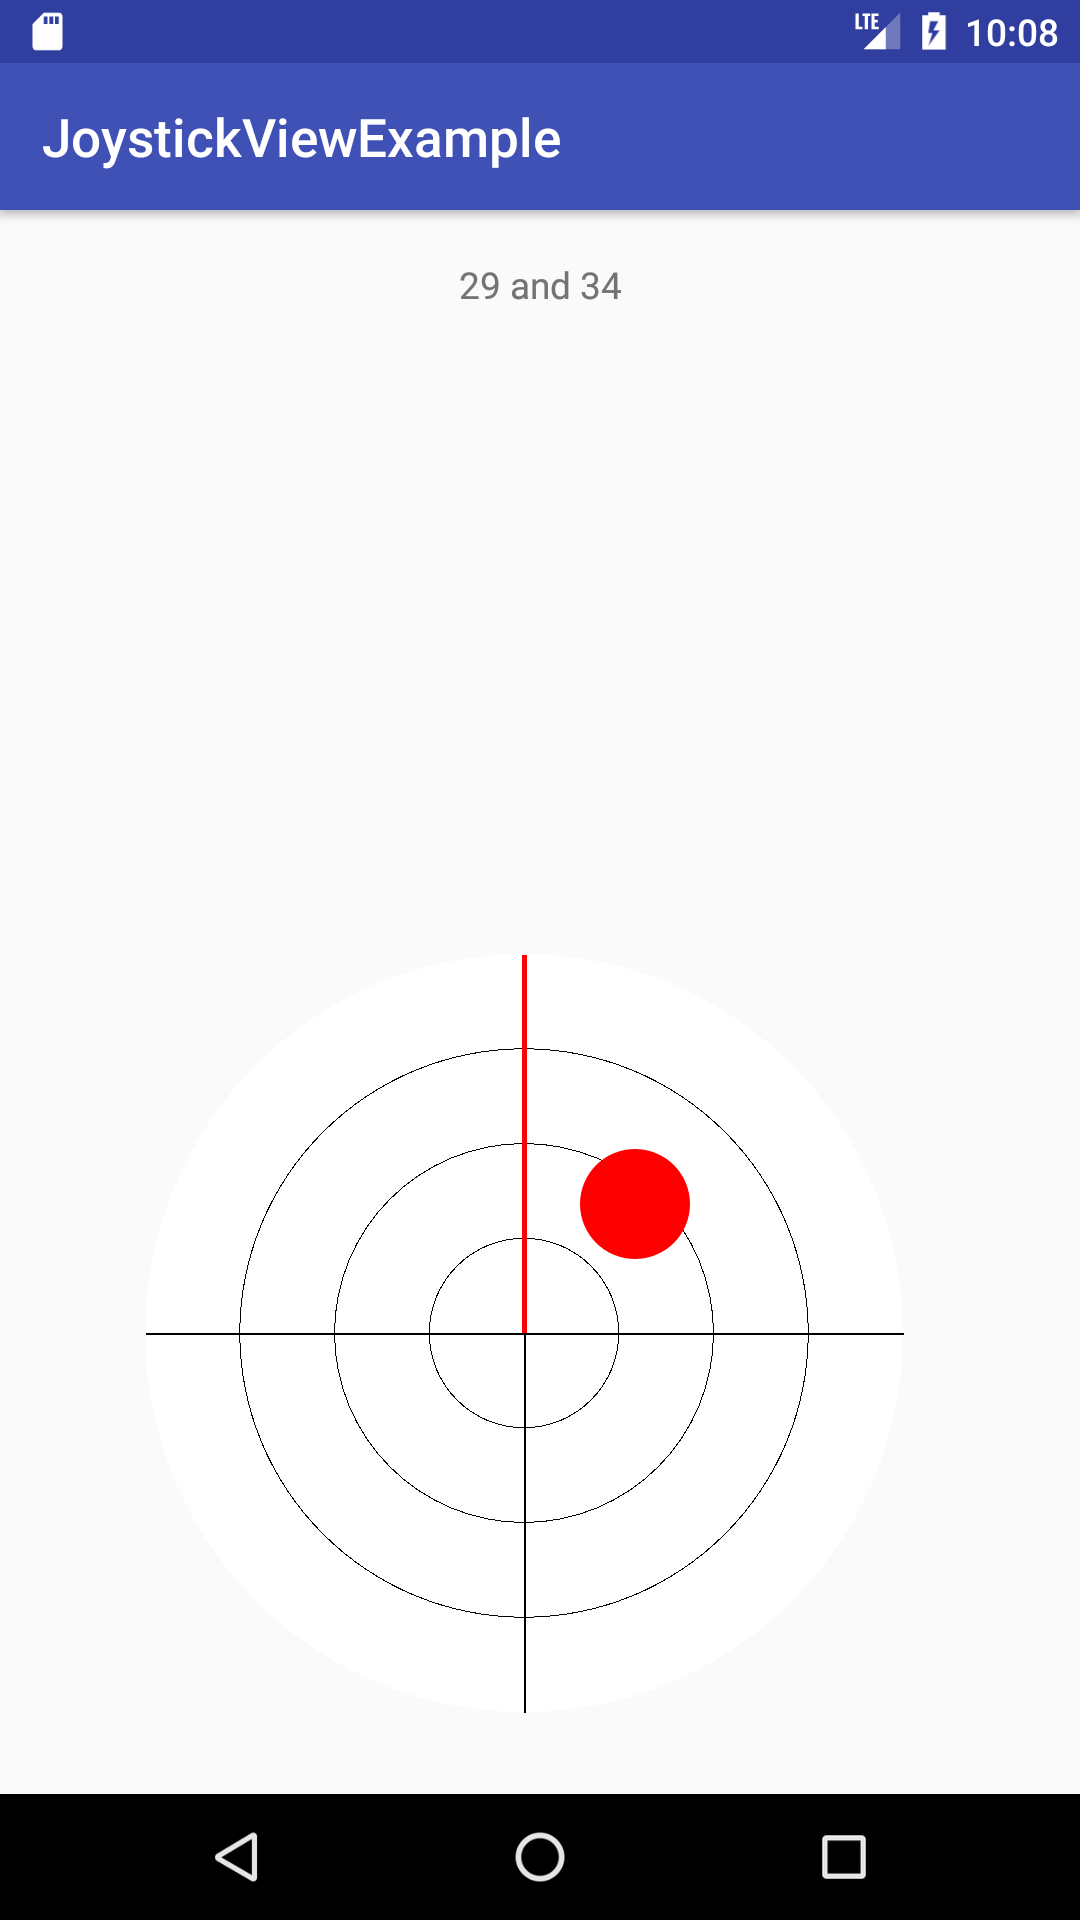
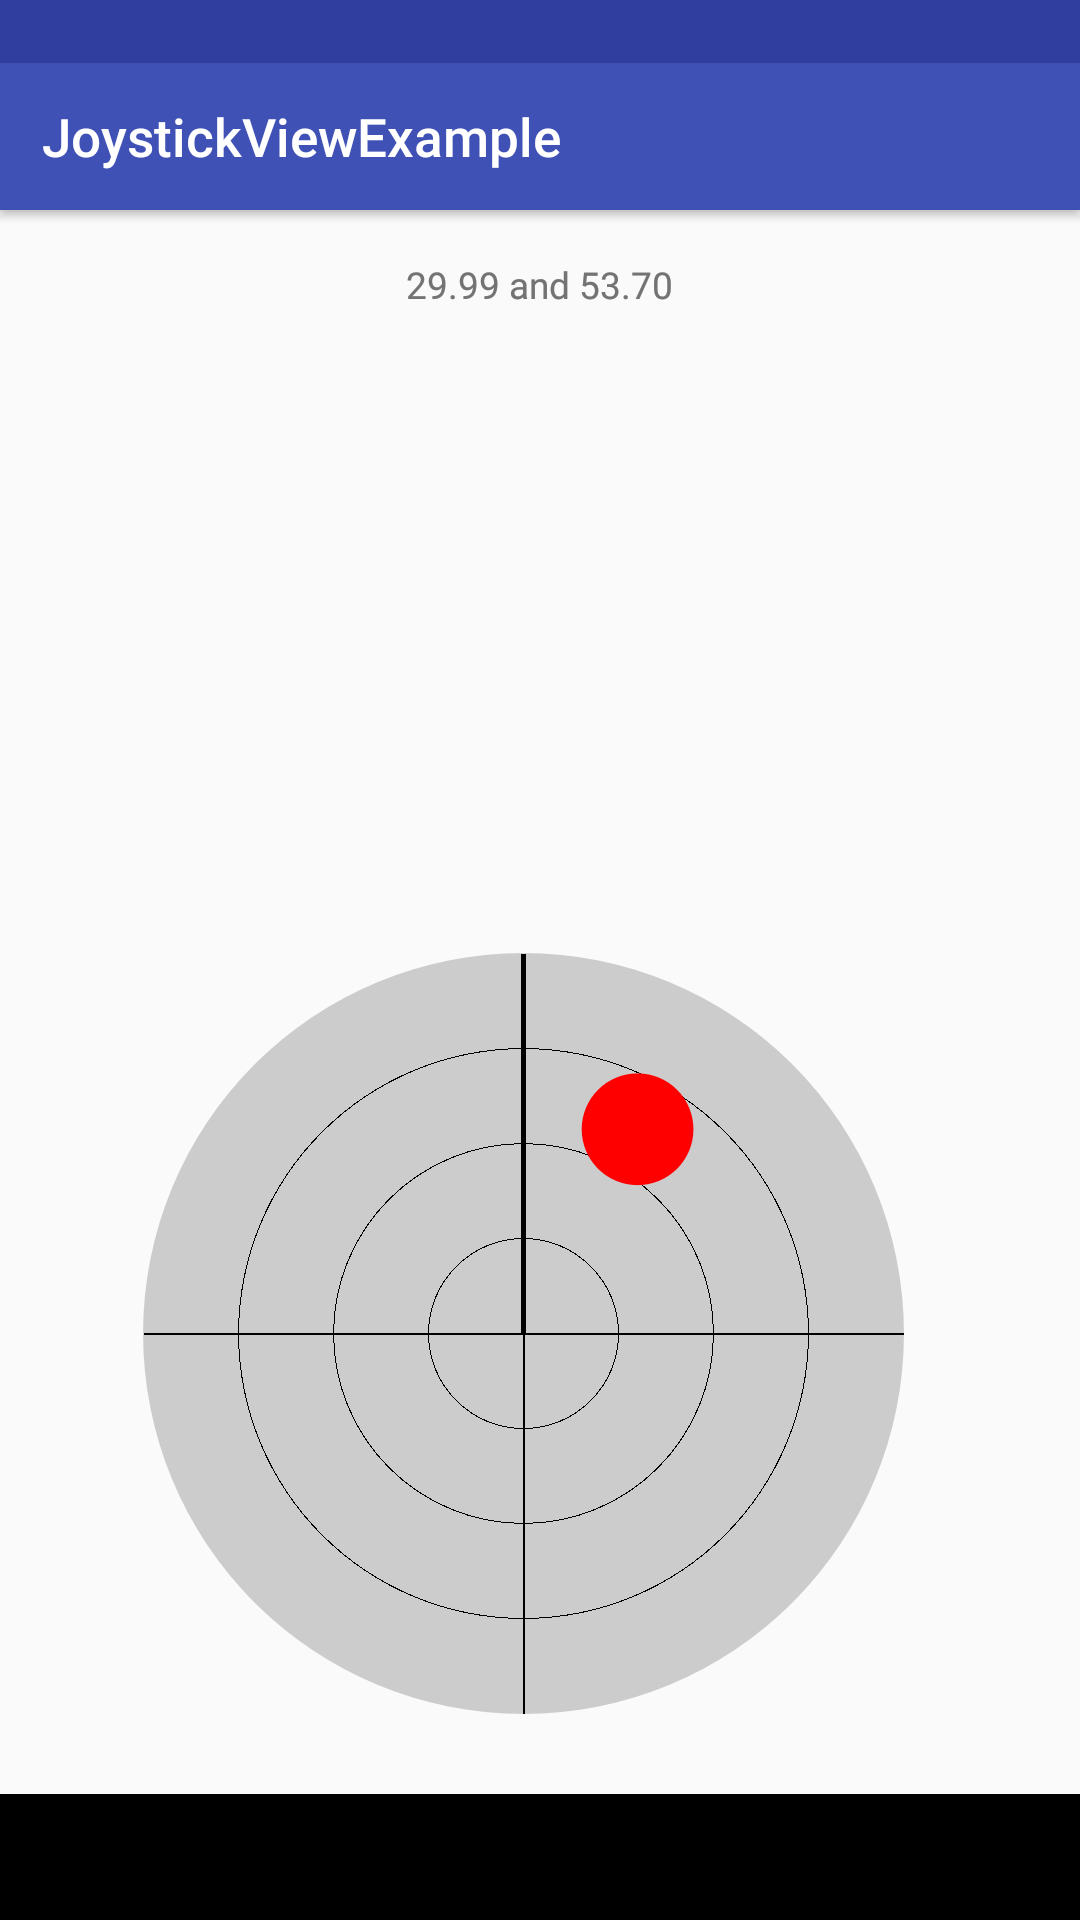
updated pages about library joystickview

diff --git a/_pages/projects-joystickview.md b/_pages/projects-joystickview.md
@@ -4,7 +4,7 @@ title: Projects - JoystickView
 permalink: /projects/JoystickView
 render: dynamic
 author_profile: false
-date: 2017-09-02T12:30:00+00:00
+date: 2018-08-11T00:17:00+00:00
 ---
 
 <div style="width: 100%;text-align: center;margin:15px;text-decoration: underline;">
@@ -60,35 +60,43 @@ An example application is given in this project!
 ```java
 package guepardoapps.joystickexample;
 
-import android.support.v7.app.AppCompatActivity;
-import android.os.Bundle;
-import android.widget.TextView;
+import android.graphics.Color
+import android.os.Bundle
+import android.support.v7.app.AppCompatActivity
+import android.util.Log
+import android.widget.TextView
+import guepardoapps.library.joystickview.JoystickView
+import guepardoapps.library.joystickview.extensions.doubleFormat
+import guepardoapps.library.joystickview.styles.JoystickViewStyle
+import io.reactivex.schedulers.Schedulers
 
-import guepardoapps.library.joystickview.JoystickView;
-import guepardoapps.library.joystickview.enums.JoystickStyleEnum;
-import guepardoapps.library.joystickview.interfaces.OnJoystickMoveListener;
+class MainActivity : AppCompatActivity() {
+    private val tag: String = MainActivity::class.java.simpleName
 
-public class MainActivity extends AppCompatActivity {
+    private val loopInterval: Long = 250
 
-    private static final long LOOP_INTERVAL = 250;
+    override fun onCreate(savedInstanceState: Bundle?) {
+        super.onCreate(savedInstanceState)
+        setContentView(R.layout.activity_main)
 
-    @Override
-    protected void onCreate(Bundle savedInstanceState) {
-        super.onCreate(savedInstanceState);
-        setContentView(R.layout.activity_main);
+        val valueView = findViewById<TextView>(R.id.valueView)
+        val defaultText = "0.0 and 0.0"
+        valueView.text = defaultText
 
-        final TextView valueView = (TextView) findViewById(R.id.valueView);
-        valueView.setText(String.valueOf(0));
-
-        JoystickView joyStickView = (JoystickView) findViewById(R.id.valueControl);
-        joyStickView.SetStyle(JoystickStyleEnum.DEFAULT);
-        joyStickView.setOnJoystickMoveListener(new OnJoystickMoveListener() {
-            @Override
-            public void onValueChanged(int powerX, int powerY) {
-                // Returns a value between -100 and 100
-                valueView.setText(String.valueOf(powerX) + " and " + String.valueOf(powerY));
-            }
-        }, LOOP_INTERVAL);
+        val joyStickView = findViewById<JoystickView>(R.id.valueControl)
+        joyStickView.setStyle(JoystickViewStyle(Color.LTGRAY, Color.BLACK, Color.BLACK, Color.BLACK, Color.BLACK, Color.BLACK, Color.RED, true))
+        joyStickView.setLoopInterval(loopInterval)
+        joyStickView.positionPublishSubject
+                .subscribeOn(Schedulers.io())
+                .subscribe(
+                        { response ->
+                            val text = "${response.x.doubleFormat(2)} and ${response.y.doubleFormat(2)}"
+                            valueView.text = text
+                        },
+                        { throwable ->
+                            Log.e(tag, throwable.toString())
+                        }
+                )
     }
 }
 
@@ -100,15 +108,18 @@ Following styles are given:
 ```java
 package guepardoapps.library.joystickview.enums;
 
-import android.graphics.Color;
+import android.graphics.Color
+import guepardoapps.library.joystickview.styles.JoystickViewStyle
 
-import guepardoapps.library.joystickview.constants.Enables;
-import guepardoapps.library.joystickview.styles.JoystickViewStyle;
-import guepardoapps.library.joystickview.tools.Logger;
+class Defaults {
+    companion object {
+        ...
 
-public enum JoystickStyleEnum {
-
-    public static JoystickViewStyle DEFAULT = new JoystickViewStyle(0, "Default", Color.WHITE, Color.BLACK, Color.BLACK, Color.BLACK, Color.RED, Color.BLACK, Color.RED, true);
+        /*
+         * default style
+         */
+        val style: JoystickViewStyle = JoystickViewStyle(Color.WHITE, Color.BLACK, Color.BLACK, Color.BLACK, Color.RED, Color.BLACK, Color.RED, true)
+    }
 }
 ```
 
@@ -118,100 +129,20 @@ Styles are based on the class JoystickViewStyle in package guepardoapps.library.
 ```java
 package guepardoapps.library.joystickview.styles;
 
-import android.support.annotation.NonNull;
-
-import guepardoapps.library.joystickview.tools.Logger;
-
-public class JoystickViewStyle {
-    private static final String TAG = JoystickViewStyle.class.getSimpleName();
-    private Logger _logger;
-
-    private int _id;
-    private String _name;
-    private int _colorMainCircle;
-    private int _colorCircleInnerOne;
-    private int _colorCircleInnerTwo;
-    private int _colorCircleInnerThree;
-    private int _colorVerticalLine;
-    private int _colorHorizontalLine;
-    private int _colorButton;
-    private boolean _resetPosition;
-
-    public JoystickViewStyle(
-            int id,
-            @NonNull String name,
-            int colorMainCircle,
-            int colorCircleInnerOne,
-            int colorCircleInnerTwo,
-            int colorCircleInnerThree,
-            int colorVerticalLine,
-            int colorHorizontalLine,
-            int colorButton,
-            boolean resetPosition) {
-        _logger = new Logger(TAG);
-        _logger.Debug("new JoystickViewStyle...");
-
-        _id = id;
-
-        _name = name;
-
-        _colorMainCircle = colorMainCircle;
-        _colorCircleInnerOne = colorCircleInnerOne;
-        _colorCircleInnerTwo = colorCircleInnerTwo;
-        _colorCircleInnerThree = colorCircleInnerThree;
-        _colorVerticalLine = colorVerticalLine;
-        _colorHorizontalLine = colorHorizontalLine;
-        _colorButton = colorButton;
-        _resetPosition = resetPosition;
-    }
-
-    public int GetId() {
-        return _id;
-    }
-
-    public String GetName() {
-        return _name;
-    }
-
-    public int GetColorMainCircle() {
-        return _colorMainCircle;
-    }
-
-    public int GetColorCircleInnerOne() {
-        return _colorCircleInnerOne;
-    }
-
-    public int GetColorCircleInnerTwo() {
-        return _colorCircleInnerTwo;
-    }
-
-    public int GetColorCircleInnerThree() {
-        return _colorCircleInnerThree;
-    }
-
-    public int GetColorVertialLine() {
-        return _colorVerticalLine;
-    }
-
-    public int GetColorHorizontalLine() {
-        return _colorHorizontalLine;
-    }
-
-    public int GetColorButton() {
-        return _colorButton;
-    }
-
-    public boolean GetResetPosition() {
-        return _resetPosition;
-    }
-}
-
-
+data class JoystickViewStyle(
+        val colorMainCircle: Int,
+        val colorCircleInner1: Int,
+        val colorCircleInner2: Int,
+        val colorCircleInner3: Int,
+        val colorLineVertical: Int,
+        val colorLineHorizontal: Int,
+        val colorButton: Int,
+        val resetPosition: Boolean)
 ```
 
 You can create a own style by creating an intance of this class, like:
 ```java
-	JoystickViewStyle MY_STYLE = new JoystickViewStyle(25, "My Style", Color.LIGHT_BLUE, Color.DARK_BLUE, Color.CYAN, Color.WHITE, Color.RED, Color.WHITE, Color.RED, false);
+	val myStyle = JoystickViewStyle(Color.LIGHT_BLUE, Color.DARK_BLUE, Color.CYAN, Color.WHITE, Color.RED, Color.WHITE, Color.RED, false);
 ```
 
-Please not that the boolean value marks a reset of the JoystickView after releasing it.
+Please note the boolean value marks a reset of the JoystickView after releasing it.

diff --git a/_pages/projects.md b/_pages/projects.md
@@ -377,7 +377,7 @@ date: 2017-08-24T22:38:00+00:00
   					<img src="https://img.shields.io/badge/build-passing-green.svg" />
   				</a>
   				<a target="_blank" href="https://github.com/GuepardoApps/library_JoystickView" title="Version">
-  					<img src="https://img.shields.io/badge/version-v1.0.0.170902-blue.svg" />
+  					<img src="https://img.shields.io/badge/version-v1.1.0.180810-blue.svg" />
   				</a>
   				<a target="_blank" href="https://opensource.org/licenses/MIT" title="License: MIT">
   					<img src="https://img.shields.io/badge/License-MIT-blue.svg" />
